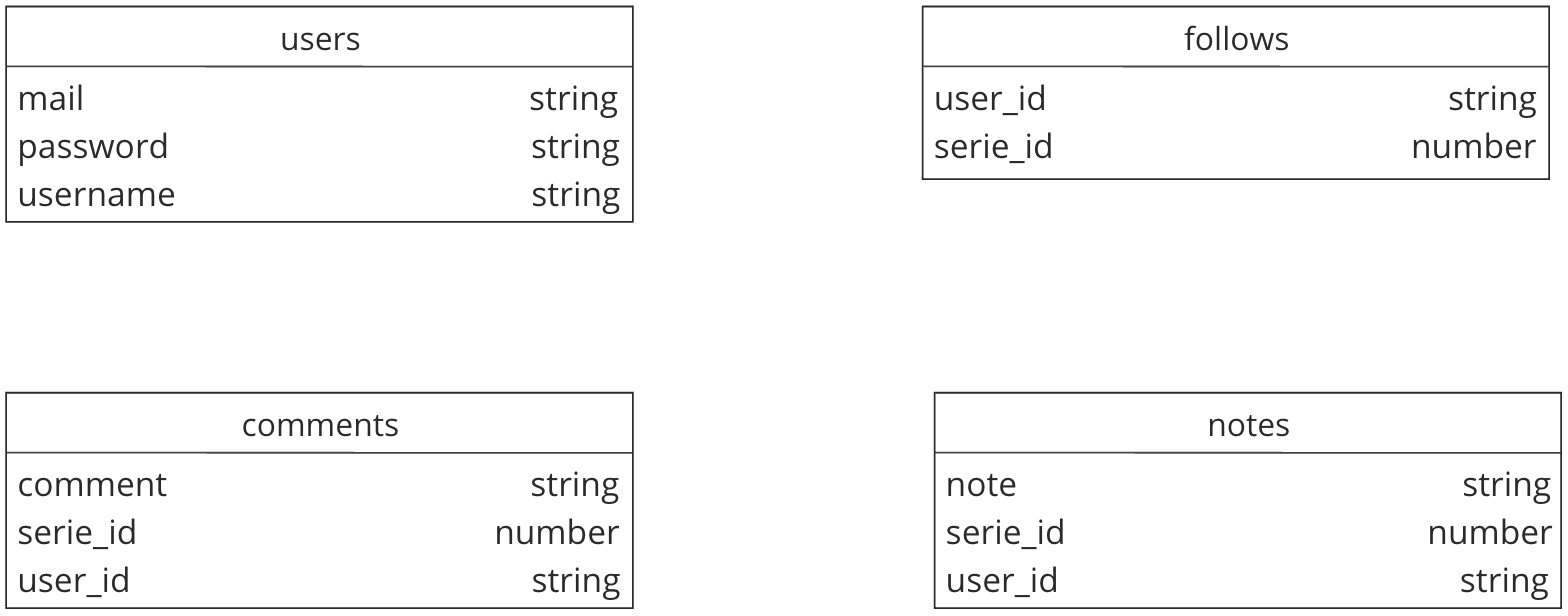
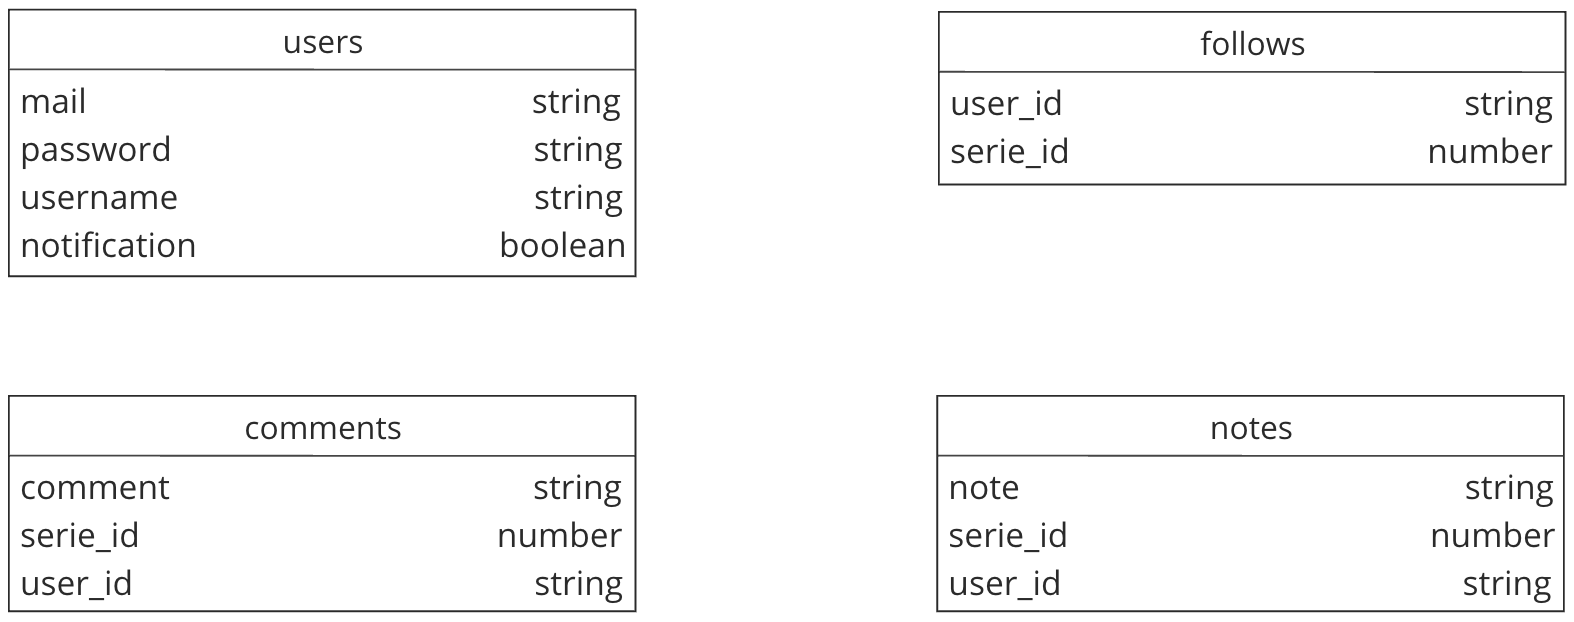
Changement image bdd readme

diff --git a/src/components/Serie.tsx b/src/components/Serie.tsx
@@ -35,7 +35,7 @@ function Series(props : any){
                 ) : (
                     <button className="followSerie" onClick={() => addFollow(firestore, props.data.id)}><FontAwesomeIcon icon={faPlus}/></button>
                 )
-            ) : null}
+            ) : null}   
         </div>
     )
 }

diff --git a/src/App.scss b/src/App.scss
@@ -159,6 +159,7 @@ a {
 
 .followSerie:hover {
   color: #fbd461;
+}
   
 .btn-back {
   position: absolute;
